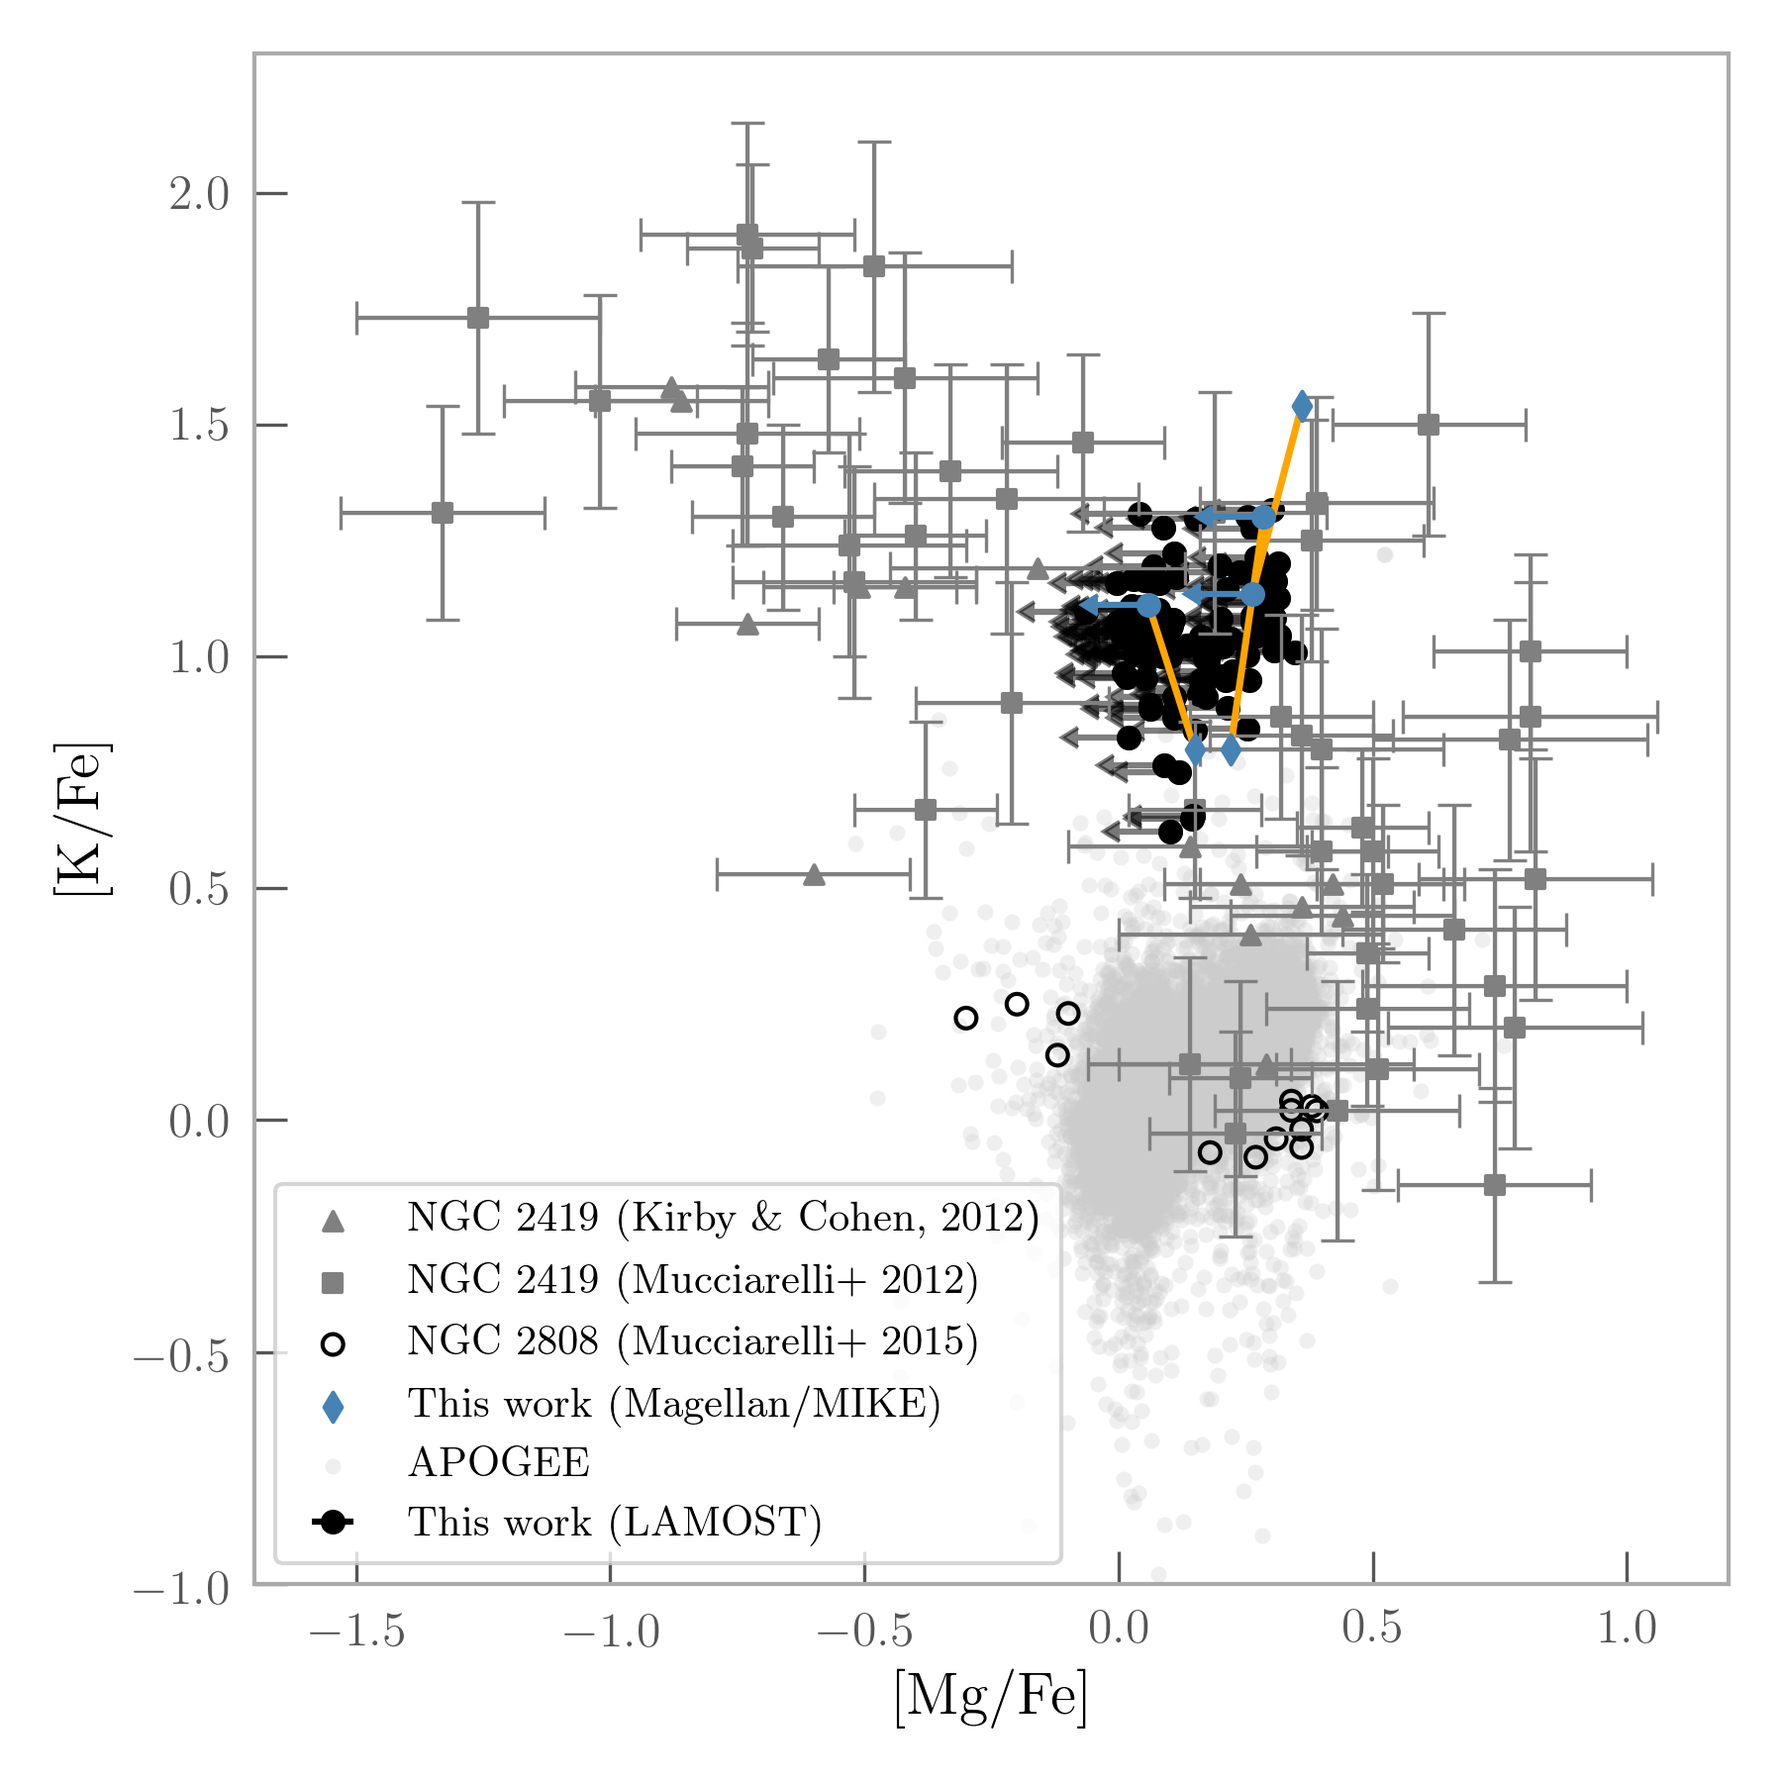
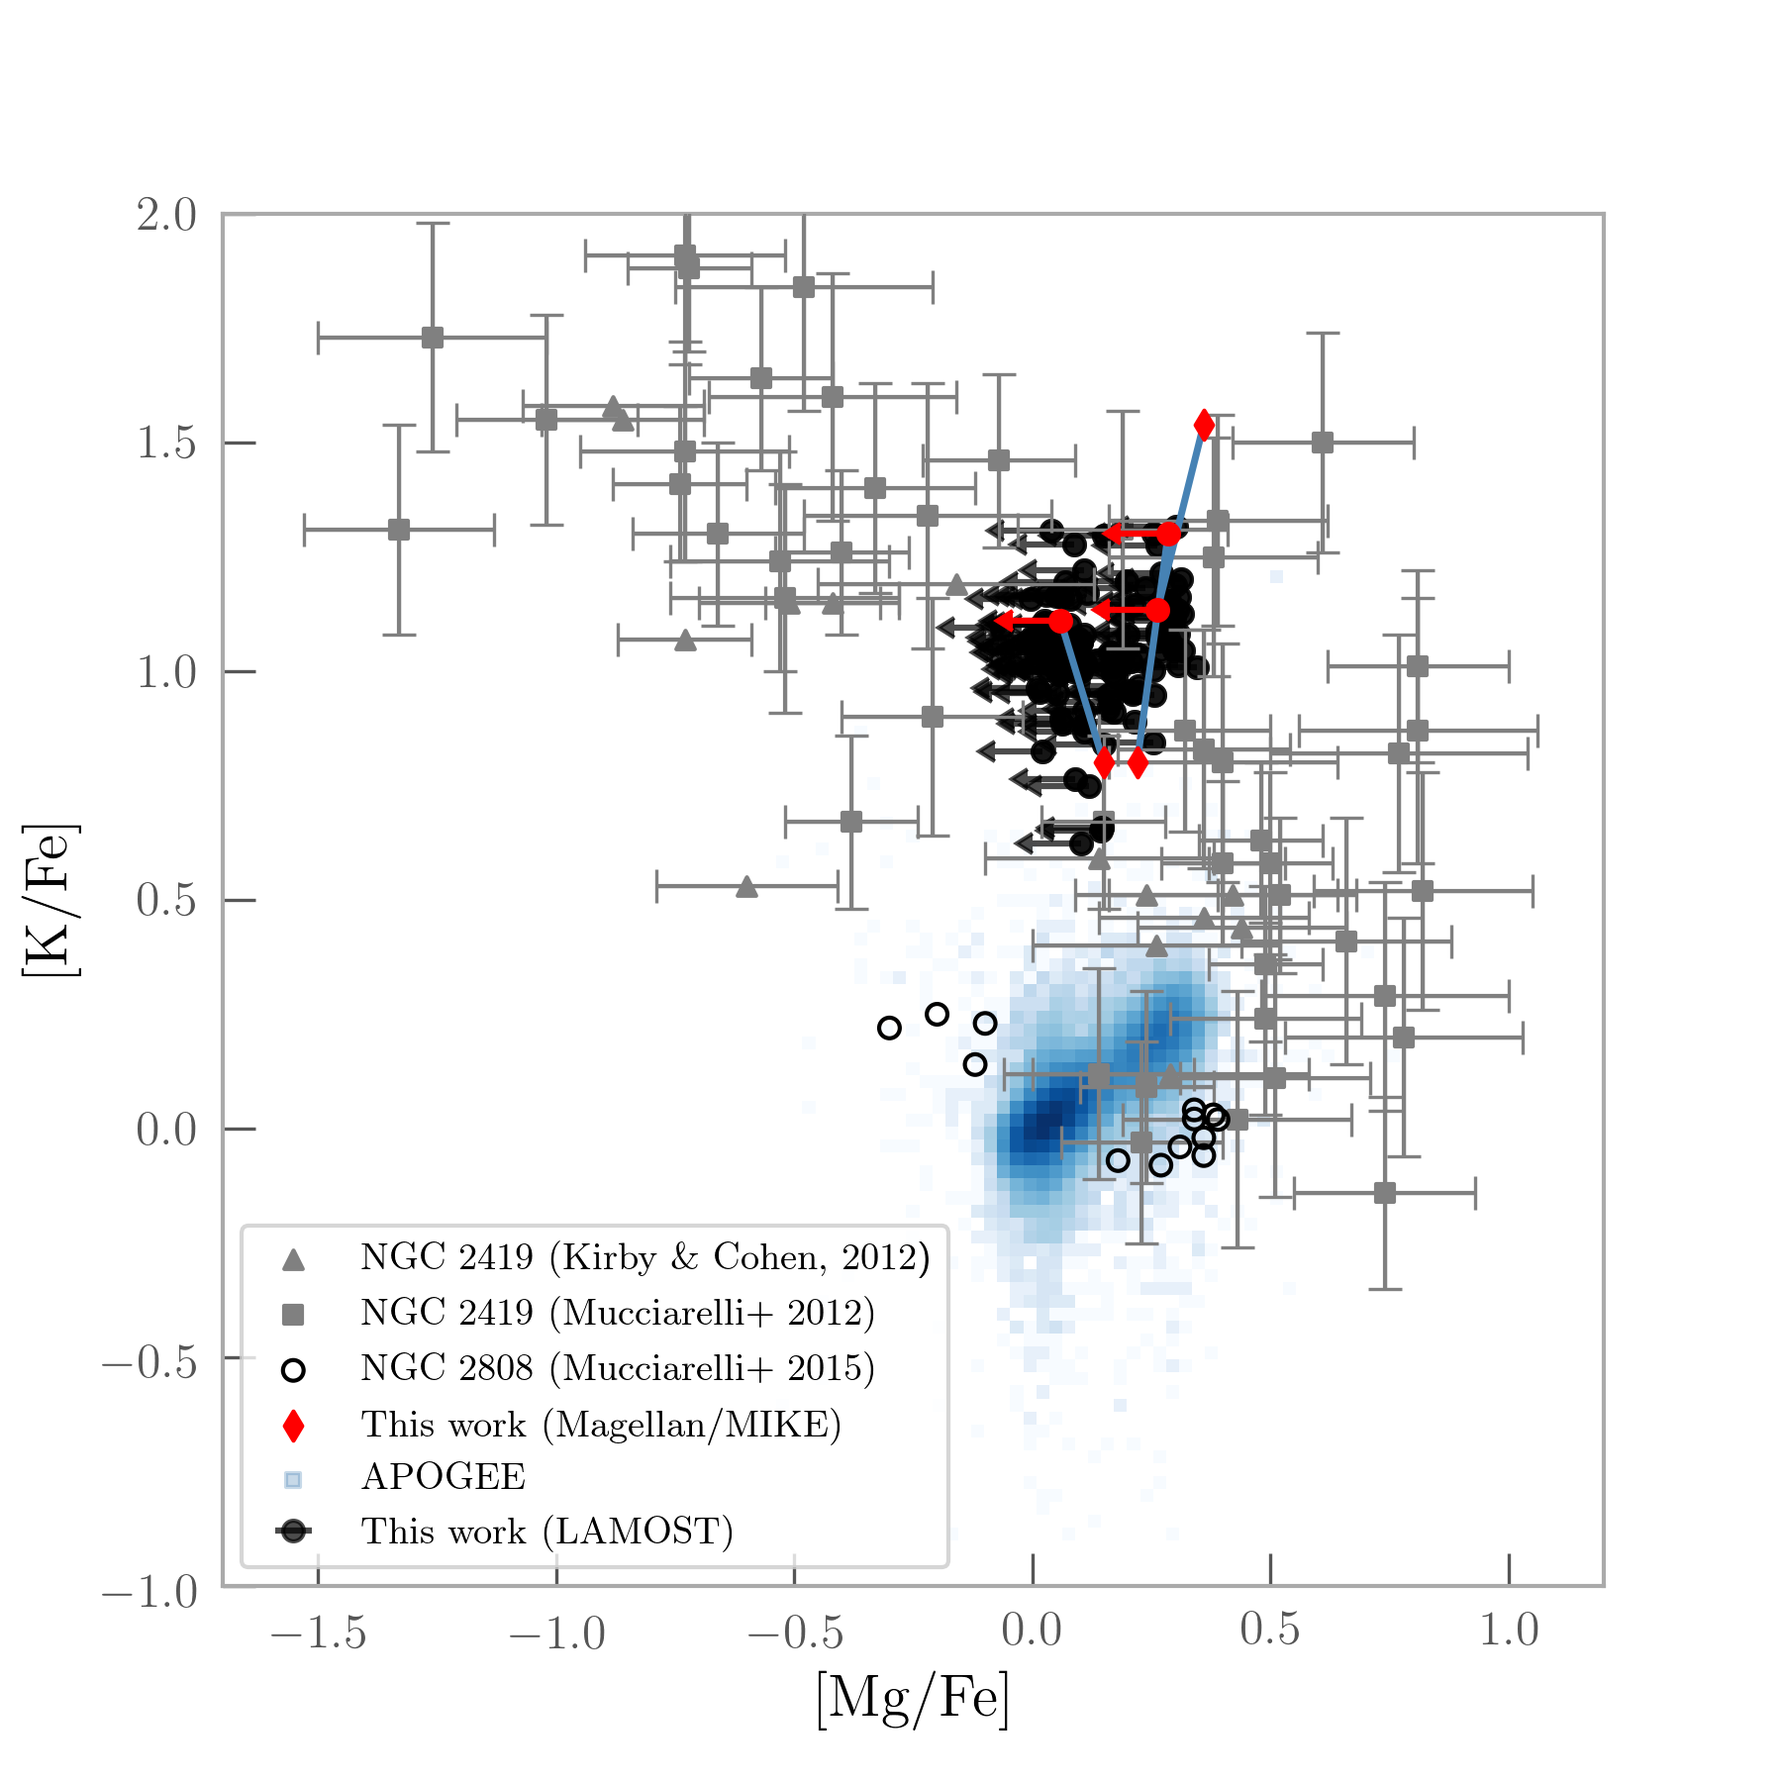
moved some tables, changed some text, fixed some figures

diff --git a/article/msculled.tex b/article/msculled.tex
@@ -193,9 +193,37 @@ We assume that deviations in flux around the potassium doublet are due to an inc
 
 
 \subsection{Follow-up observations with Magellan/MIKE}
-We acquired high-resolution spectra of three of our candidates as ancillary targets to an existing observing campaign. The three targets (J075043.12+204658.0, J120032.60+024438.2 and J091825.49+172114.5) were selected based on their observability from Las Campanas Observatory, and we used the Magellan Inamori Kyocera Echelle (MIKE) spectrograph on the Magellan Clay telescope \citep{shectman2003magellan,bernstein2003mike}. Exposure times were calculated to achieve a S/N of 30 per pixel at 450\,nm, sufficient to verify the K-enriched and Mg-poor nature of these stars. We reduced the data using the \texttt{CarPy} package \citep{kelson2003}. We used smoothing spline functions to continuum-normalize individual echelle orders, before combining them to produce a continuum-normalized spectrum that is contiguous from 350\,nm to 950\,nm. With the stellar parameters from \lamost, we calculated [K/Fe] and [Mg/Fe] abundances from individual atomic lines by measuring equivalent widths with Gaussian absorption profiles \citep{castelli2004,sneden,casey2014}. From the Magellan/MIKE spectra we confirmed that the K lines in these candidates were unaffected by telluric contamination. The estimated abundances from Magellan/MIKE spectra are consistent (within the uncertainties) of our initial abundance determinations from \lamost\ (Figure \ref{KvsMg}), and are presented in Table \ref{data:magellan}.
-
-
+We acquired high-resolution spectra of three of our candidates as ancillary targets to an existing observing campaign. The three targets (J075043.12+204658.0, J120032.60+024438.2 and J091825.49+172114.5) were selected based on their observability from Las Campanas Observatory, and we used the Magellan Inamori Kyocera Echelle (MIKE) spectrograph on the Magellan Clay telescope \citep{shectman2003magellan,bernstein2003mike}. Exposure times were calculated to achieve a S/N of 30 per pixel at 450\,nm, sufficient to verify the K-enriched and Mg-poor nature of these stars. We reduced the data using the \texttt{CarPy} package \citep{kelson2003}. We used smoothing spline functions to continuum-normalize individual echelle orders, before combining them to produce a continuum-normalized spectrum that is contiguous from 350\,nm to 950\,nm. With the stellar parameters from \lamost, we calculated [K/Fe] and [Mg/Fe] abundances from individual atomic lines by measuring equivalent widths with Gaussian absorption profiles \citep{castelli2004,sneden,casey2014}. From the Magellan/MIKE spectra we confirmed that the K lines in these candidates were unaffected by telluric contamination. The estimated abundances from Magellan/MIKE spectra are consistent (within the uncertainties) of our initial abundance determinations from \lamost\ (Figure \ref{KvsMg}), and are presented in Table \ref{data:magellan}. Additional atomic line abundances are included in Table \ref{data:atomiclines} in the Appendix.
+\begin{table}[H]
+\centering
+\caption{Summary of line abundances measured from Magellan/MIKE follow-up spectra.}
+\label{data:magellan}
+\begin{tabular}{lcccc}
+\multicolumn{5}{c}{J075043.12+204658.0} \\
+\hline
+Species & $N$ & $\log_\epsilon(\textrm{X})$ & [X/Fe] & $\sigma/\sqrt{N}$ \\
+\hline
+\ion{Mg}{I} & 5 & 7.45 & $+$0.32 & 0.10 \\
+\ion{K}{I}  & 2 & 5.33 & $+$0.77 & 0.07 \\
+\hline
+\\
+\multicolumn{5}{c}{J091825.48+172114.5} \\
+\hline
+Species & $N$ & $\log_\epsilon(\textrm{X})$ & [X/Fe] & $\sigma/\sqrt{N}$ \\
+\hline
+\ion{Mg}{I} & 5 & 6.34 & $+$0.29 & 0.08 \\
+\ion{K}{I}  & 2 & 6.28 & $+$0.85 & 0.11 \\
+\hline
+\\
+\multicolumn{5}{c}{J120032.60+024438.2} \\
+\hline
+Species & $N$ & $\log_\epsilon(\textrm{X})$ & [X/Fe] & $\sigma/\sqrt{N}$ \\
+\hline
+\ion{Mg}{I} & 6 & 6.96 & $-$0.03 & 0.10 \\
+\ion{K}{I}  & 2 & 4.96 & $+$1.22 & 0.31 \\
+\hline
+\end{tabular}
+\end{table}
 
 \begin{figure*}
 \centering
@@ -275,23 +303,32 @@ No candidates have [Fe/H] $\approx -2$, the approximate metallicity of NGC 2419,
 
 
 \subsection{Detailed chemical abundances}
+In this section, we describe the abundance trends evident from the \lamost\ and Magellan/MIKE spectra and compare with stars identified as anomalous regarding their [Mg/Fe] and [K/Fe] abundances in other studies. Abundances as well as several physical and observational parameters are available for all candidate stars online, with a sample shown in Table \ref{data:lamost}
+
 \label{sec:abundances}
+
 
 \subsubsection{[Na/Fe]}
 
-\begin{figure*}
-\begin{subfigure}{0.5\textwidth}
+\begin{figure}
+\centering
+\begin{subfigure}{0.35\textwidth}
+\centering
 	\includegraphics[width=\columnwidth]{NavsFeh.png}
     \caption{[Na/Fe] vs [Fe/H] for the candidate stars.}
     \label{NavsFeh}
 \end{subfigure}
 
-\begin{subfigure}{0.5\textwidth}
+\begin{subfigure}{0.35\textwidth}
+\centering
 	\includegraphics[width=\columnwidth]{Navsb.png}
     \caption{[Na/Fe] vs galactic latitude for the candidate stars.}
     \label{Navsb}
-\end{subfigure}%
-\begin{subfigure}{0.5\textwidth}
+\end{subfigure}
+
+
+\begin{subfigure}{0.35\textwidth}
+\centering
 	\includegraphics[width=\columnwidth]{Navsradvel.png}
     \caption{[Na/Fe] vs radial velocity for the candidate stars.}
     \label{Navsradvel}
@@ -301,7 +338,7 @@ No candidates have [Fe/H] $\approx -2$, the approximate metallicity of NGC 2419,
 %\ContinuedFloat
 
 \caption{A strong bimodality in [Na/Fe] abundances of the candidate stars is observed, with a significant population displaying anomolously high abundances. Due to the apparent near-exclusivity of this population within the disk of the galaxy, and their notably higher E(B-V) values \citep{schlafly2011}, this phenomena is almost certainly due to interstellar dust.}
-\end{figure*}
+\end{figure}
 
 
 The modelling work of \cite{prantzos2017} predicted an anti-correlation between Na and K in a 180\,MK hydrogen burning environment, while observational data for NGC 2808 implies a positive correlation between Na and K. Upon examining the [Na/Fe] abundance ratios we estimated from \lamost\ spectra of our candidates, based on the doublet around 5850 \AA, we observed two distinct populations: one population making up approximately 30 percent of the sample with [Na/Fe] $> 0.5$, significantly higher than typical Galactic abundances of [Na/Fe] $\lesssim$ 0.3 \citep{kobayashi2011}, and a second population with [Na/Fe] abundance ratios consistent with typical Galactic levels. The two groups can be clearly distinguished in Figure \ref{NavsFeh}, where for comparison we also show the abundances of [Na/Fe] versus [Fe/H] from the \apogee\ survey.
@@ -334,7 +371,7 @@ Abundance ratios of [$\alpha$/Fe] in our sample fall within the lower limits for
 
 Given that the sample is almost certainly comprised of disk stars, it is relevant to also compare with typical Galactic abundances for [K/Fe]. In Figure \ref{KvsMg} and \ref{KvsFe} we make these comparisons with data from the \apogee\ survey \citep{alam2015}. The sample's [K/Fe] appears definitively anomalous, with Galactic [K/Fe] around $0.3 \pm 0.2$\,dex, while the identified candidate stars have a spread in [K/Fe] of 0.8 to 1.3. Note that the Magellan/MIKE abundance for candidate star J091825.49+172114.5 has [K/Fe] $=1.54$, confirming that at least some of the sample stars have extremely high levels of [K/Fe], approaching the extreme levels observed in NGC 2419.
 
-The [K/Fe] abundance ratios in our sample also show an anti-correlation with total metallicity, illustrated in Figure \ref{KvsFe}, which is not present in the bulk of Milky Way stars. It is interesting that the levels of [K/Fe] in the Mg-poor population of NGC 2419 appear consistent with this relation. However, we recommend additional high-resolution observations are needed to verify this trend.
+The [K/Fe] abundance ratios in our sample also show an anti-correlation with total metallicity, illustrated in Figure \ref{KvsFe}, which is not present in the bulk of Milky Way stars. It is interesting that the levels of [K/Fe] in the Mg-poor population of NGC 2419 appear consistent with this relation. For completeness, we caution that this trend may be an artefact of our analysis. [K/Fe] is calculated from the flux residuals ( $f_{\textrm{residual}} = f_{\textrm{data}} - f_{\textrm{model}}$), and the data-driven model may already account for some level of [K/Fe] in the star due to the model representing the typical star at a given $\teff$, $\logg$, metalicity and [$\alpha$/Fe]. This has potential to cause spurious effects; however, it should also be emphasized that these effects would be within the uncertainties associated with estimating abundances from \lamost\ spectra. We recommend additional high-resolution observations to verify this trend.
 
 %However we caution that this may be an artefact of our analysis. Further high resolution observations are needed to verify this trend.
 
@@ -403,48 +440,21 @@ Guoshoujing Telescope (the Large Sky Area Multi-Object Fiber Spectroscopic Teles
 \bibliography{mgkbib} % if your bibtex file is called example.bib
 
 
-
-
-\begin{table*}
-\centering
-\caption{Tabulated data for 10 of the 112 candidate stars. Data for the full sample is available online.}
-\label{data}
-\begin{tabular}{cccccccccccccc}
-\hline
-\textbf{2MASSID} & \textbf{RA} & \textbf{DEC} & \textbf{S/N} & \textbf{V$_\textrm{r}$} & \textbf{T$_\textrm{eff}$} & $\boldsymbol \log{ \, \textbf{g}}$ & \textbf{{[}Fe/H{]}} & \textbf{{[}$\alpha$/Fe{]}} & \textbf{$\boldsymbol \chi_r ^\textbf{2}$} & \textbf{{[}K/Fe{]}} & \textbf{Error} & \textbf{{[}Na/Fe{]}} & \textbf{Error} \\ 
-- & {[}deg{]} & {[}deg{]} & [pixel$^{-1}]$ & {[${\rm km\,s}^{-1}$]} & {[}K{]} & $[{\rm cm\,s}^{-2}]$ & {[}dex{]} & {[}dex{]} & - & {[}dex{]} & {[}dex{]} & {[}dex{]} & {[}dex{]} \\ \hline
-J000908.89+124821.9 & 2.29 & 12.81 & 10 & -78.55 & 4892 & 2.82 & -0.12 & 0.33 & 0.19 & 1.08 & 0.26 & 0.86 & 0.23 \\
-J002619.36+565612.1 & 6.58 & 56.94 & 31 & -39.57 & 4205 & 1.49 & 0.22 & 0.06 & 0.76 & 0.62 & 0.22 & 0.39 & 0.22 \\
-J002907.61+354701.0 & 7.28 & 35.78 & 15 & -82.74 & 5116 & 3.56 & 0.24 & 0.17 & 0.18 & 1.01 & 0.21 & -0.20 & 0.20 \\
-J003451.10+424543.0 & 8.71 & 42.76 & 15 & -79.15 & 4460 & 2.10 & -0.56 & 0.24 & 0.31 & 0.96 & 0.33 & -0.16 & 0.20 \\
-J005649.98+391722.9 & 14.21 & 39.29 & 41 & -46.77 & 4578 & 2.67 & 0.31 & 0.1 & 0.44 & 0.76 & 0.23 & -0.02 & 0.20 \\
-J010305.95+043445.9 & 15.77 & 4.58 & 90 & 20.69 & 4646 & 2.72 & 0.1 & 0.05 & 1.17 & 0.95 & 0.21 & -0.07 & 0.20 \\
-J011949.36+063411.4 & 19.96 & 6.57 & 479 & -28.18 & 4820 & 2.61 & -0.29 & 0.09 & 2.38 & 1.03 & 0.20 & -0.04 & 0.20 \\
-J013039.08+404843.8 & 22.66 & 40.81 & 71 & -80.34 & 4355 & 2.01 & -0.09 & 0.14 & 0.93 & 0.92 & 0.21 & 0.46 & 0.21 \\
-J030101.42+560042.3 & 45.26 & 56.01 & 88 & -39.27 & 4878 & 2.53 & -0.32 & 0.09 & 0.67 & 1 & 8.70 & -0.02 & 0.20 \\
-J032423.46+425429.6 & 51.1 & 42.91 & 23 & -56.74 & 4649 & 2.63 & -0.11 & -0.01 & 0.34 & 1.12 & 0.22 & 0.80 & 0.20 \\ \hline
-\end{tabular}
-\end{table*}
-
-\begin{table}[]
-\centering
-\caption{Tabulated data for the 3 stars observed using MAGELLAN/MIKE}
-\label{data:magellan}
-\begin{tabular}{lllllllllll}
-designation\_1      & ra\_1\_1 & dec\_1\_1 & cannon\_teff\_1 & cannon\_logg\_1 & cannon\_m\_h\_1 & cannon\_alpha\_m\_1 & {[}Mg/Fe{]} & {[}K/Fe{]} & K\_FE & K\_FE\_err \\
-J075043.12+204658.0 & 117.68   & 20.78     & 4795.00         & 2.53            & -0.47           & 0.06                & 0.15        & 0.80       & 1.11  & 0.05       \\
-J120032.60+024438.2 & 180.14   & 2.74      & 4633.00         & 2.33            & -0.93           & 0.26                & 0.22        & 0.80       & 1.13  & 0.02       \\
-J091825.49+172114.5 & 139.61   & 17.35     & 4899.00         & 2.71            & -1.19           & 0.29                & 0.36        & 1.54       & 1.30  & 0.12      
-\end{tabular}
-\end{table}
-
 %%%%%%%%%%%%%%%%%%%%%%%%%%%%%%%%%%%%%%%%%%%%%%%%%%
 
+%%%%%%%%%%%%%%%%% APPENDICES %%%%%%%%%%%%%%%%%%%%%
+
+\appendix
+
+\section{Additional atomic line abundances from Magellan/MIKE}
+
+
+%%%%%%%%%%%%%%%%%%%%%%%%%%%%%%%%%%%%%%%%%%%%%%%%%%
 
 \begin{table*}
 \centering
 \caption{Atomic line abundances measured from Magellan/MIKE follow-up spectra of three Mg/K candidates.}
-\label{line-measurements}
+\label{data:atomiclines}
 \begin{tabular}{crrrcccccc}
 \hline
 & & & & \multicolumn{2}{c}{J075043.12+204658.0} & \multicolumn{2}{c}{J091825.48+172114.5} & \multicolumn{2}{c}{J120032.60+024438.2} \\
@@ -468,45 +478,27 @@ Species & $\lambda$ & $\chi$ & $\log{gf}$ & E.W. & $\log_\epsilon(\textrm{X})$ &
 \end{tabular}
 \end{table*}
 
-\begin{table}
+\begin{table*}
 \centering
-\caption{Summary of line abundances measured from Magellan/MIKE follow-up spectra.}
-\label{line-summary-measurements}
-\begin{tabular}{lcccc}
-\multicolumn{5}{c}{J075043.12+204658.0} \\
-
+\caption{Tabulated data for 10 of the 112 candidate stars. Data for the full sample is available online.}
+\label{data:lamost}
+\begin{tabular}{cccccccccccccc}
 \hline
-Species & $N$ & $\log_\epsilon(\textrm{X})$ & [X/Fe] & $\sigma/\sqrt{N}$ \\
-
-\hline
-\ion{Mg}{I} & 5 & 7.45 & $+$0.32 & 0.10 \\
-\ion{K}{I}  & 2 & 5.33 & $+$0.77 & 0.07 \\
-\hline
-
-\\
-\multicolumn{5}{c}{J091825.48+172114.5} \\
-
-\hline
-Species & $N$ & $\log_\epsilon(\textrm{X})$ & [X/Fe] & $\sigma/\sqrt{N}$ \\
-
-\hline
-\ion{Mg}{I} & 5 & 6.34 & $+$0.29 & 0.08 \\
-\ion{K}{I}  & 2 & 6.28 & $+$0.85 & 0.11 \\
-\hline
-
-\\
-\multicolumn{5}{c}{J120032.60+024438.2} \\
-
-\hline
-Species & $N$ & $\log_\epsilon(\textrm{X})$ & [X/Fe] & $\sigma/\sqrt{N}$ \\
-
-\hline
-\ion{Mg}{I} & 6 & 6.96 & $-$0.03 & 0.10 \\
-\ion{K}{I}  & 2 & 4.96 & $+$1.22 & 0.31 \\
-\hline
+\textbf{2MASSID} & \textbf{RA} & \textbf{DEC} & \textbf{S/N} & \textbf{V$_\textrm{r}$} & \textbf{T$_\textrm{eff}$} & $\boldsymbol \log{ \, \textbf{g}}$ & \textbf{{[}Fe/H{]}} & \textbf{{[}$\alpha$/Fe{]}} & \textbf{$\boldsymbol \chi_r ^\textbf{2}$} & \textbf{{[}K/Fe{]}} & \textbf{Error} & \textbf{{[}Na/Fe{]}} & \textbf{Error} \\ 
+- & {[}deg{]} & {[}deg{]} & [pixel$^{-1}]$ & {[${\rm km\,s}^{-1}$]} & {[}K{]} & $[{\rm cm\,s}^{-2}]$ & {[}dex{]} & {[}dex{]} & - & {[}dex{]} & {[}dex{]} & {[}dex{]} & {[}dex{]} \\ \hline
+J000908.89+124821.9 & 2.29 & 12.81 & 10 & -78.55 & 4892 & 2.82 & -0.12 & 0.33 & 0.19 & 1.08 & 0.26 & 0.86 & 0.23 \\
+J002619.36+565612.1 & 6.58 & 56.94 & 31 & -39.57 & 4205 & 1.49 & 0.22 & 0.06 & 0.76 & 0.62 & 0.22 & 0.39 & 0.22 \\
+J002907.61+354701.0 & 7.28 & 35.78 & 15 & -82.74 & 5116 & 3.56 & 0.24 & 0.17 & 0.18 & 1.01 & 0.21 & -0.20 & 0.20 \\
+J003451.10+424543.0 & 8.71 & 42.76 & 15 & -79.15 & 4460 & 2.10 & -0.56 & 0.24 & 0.31 & 0.96 & 0.33 & -0.16 & 0.20 \\
+J005649.98+391722.9 & 14.21 & 39.29 & 41 & -46.77 & 4578 & 2.67 & 0.31 & 0.1 & 0.44 & 0.76 & 0.23 & -0.02 & 0.20 \\
+J010305.95+043445.9 & 15.77 & 4.58 & 90 & 20.69 & 4646 & 2.72 & 0.1 & 0.05 & 1.17 & 0.95 & 0.21 & -0.07 & 0.20 \\
+J011949.36+063411.4 & 19.96 & 6.57 & 479 & -28.18 & 4820 & 2.61 & -0.29 & 0.09 & 2.38 & 1.03 & 0.20 & -0.04 & 0.20 \\
+J013039.08+404843.8 & 22.66 & 40.81 & 71 & -80.34 & 4355 & 2.01 & -0.09 & 0.14 & 0.93 & 0.92 & 0.21 & 0.46 & 0.21 \\
+J030101.42+560042.3 & 45.26 & 56.01 & 88 & -39.27 & 4878 & 2.53 & -0.32 & 0.09 & 0.67 & 1 & 8.70 & -0.02 & 0.20 \\
+J032423.46+425429.6 & 51.1 & 42.91 & 23 & -56.74 & 4649 & 2.63 & -0.11 & -0.01 & 0.34 & 1.12 & 0.22 & 0.80 & 0.20 \\ \hline
 \end{tabular}
-\end{table}
-
+\end{table*}
+%%%%%%%%%%%%%%%%%%%%%%%%%%%%%%%%%%%%%%%%%%%%%%%%%%
 
 
 
